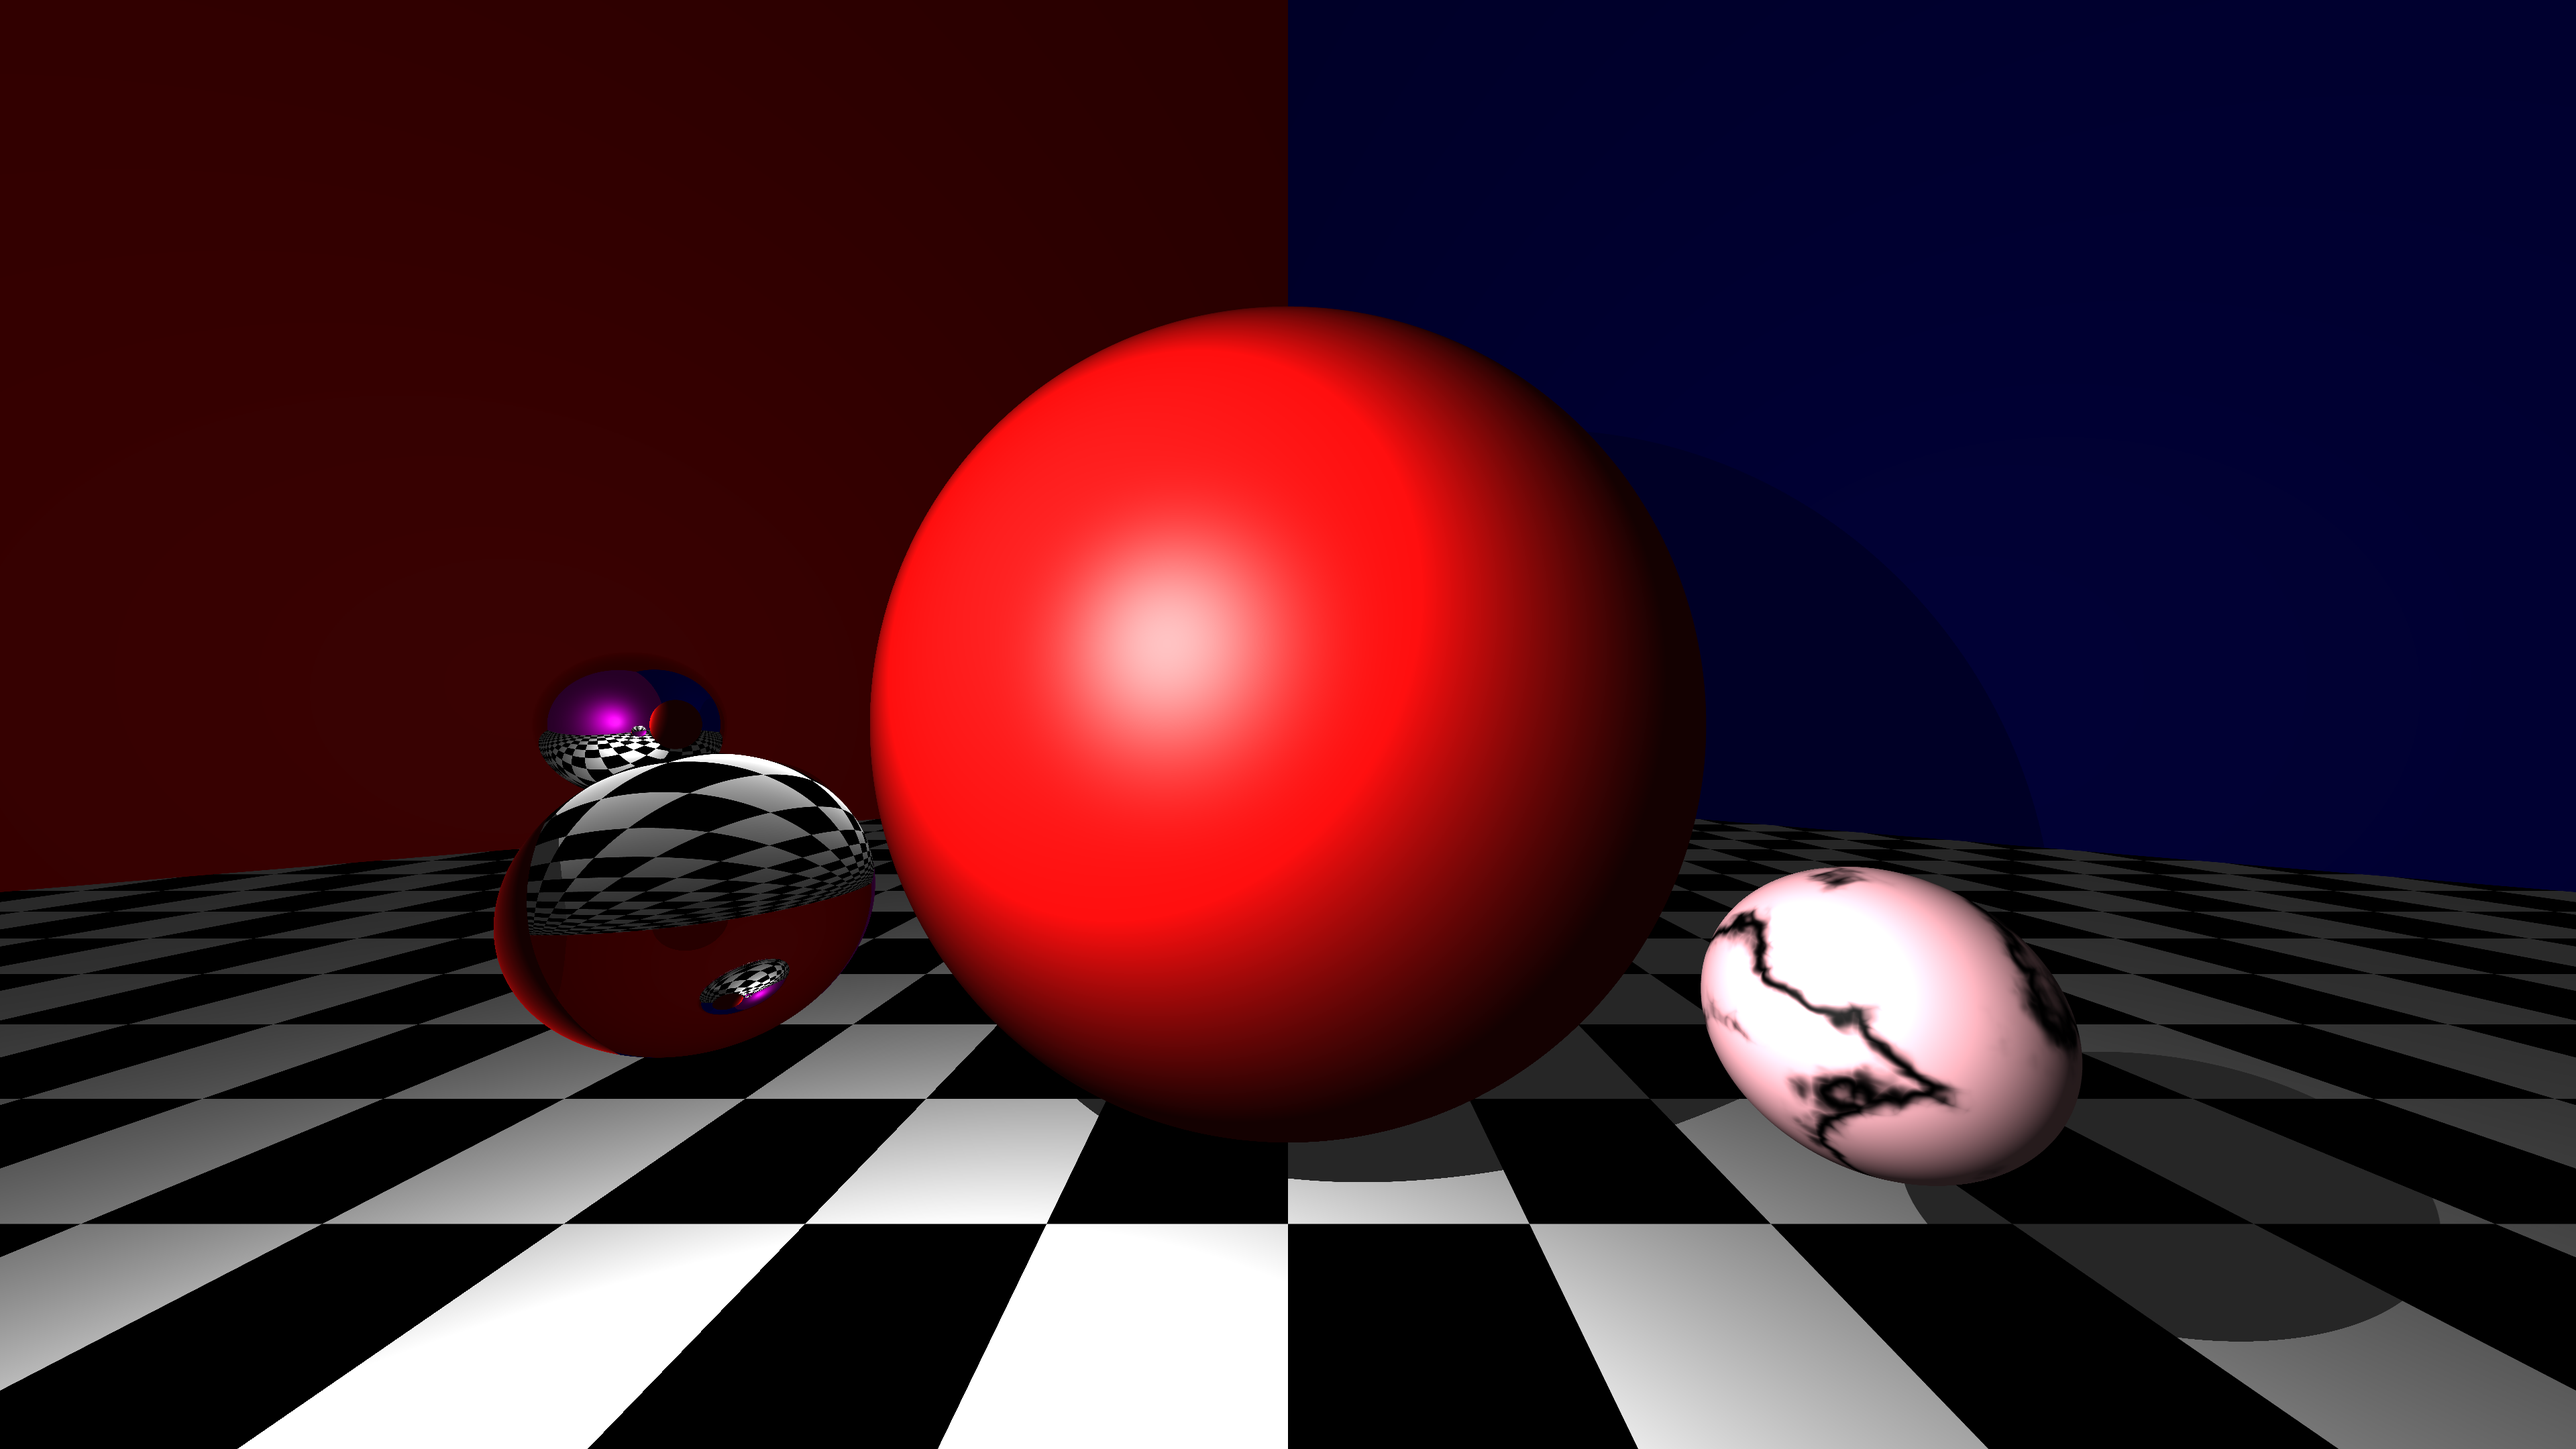
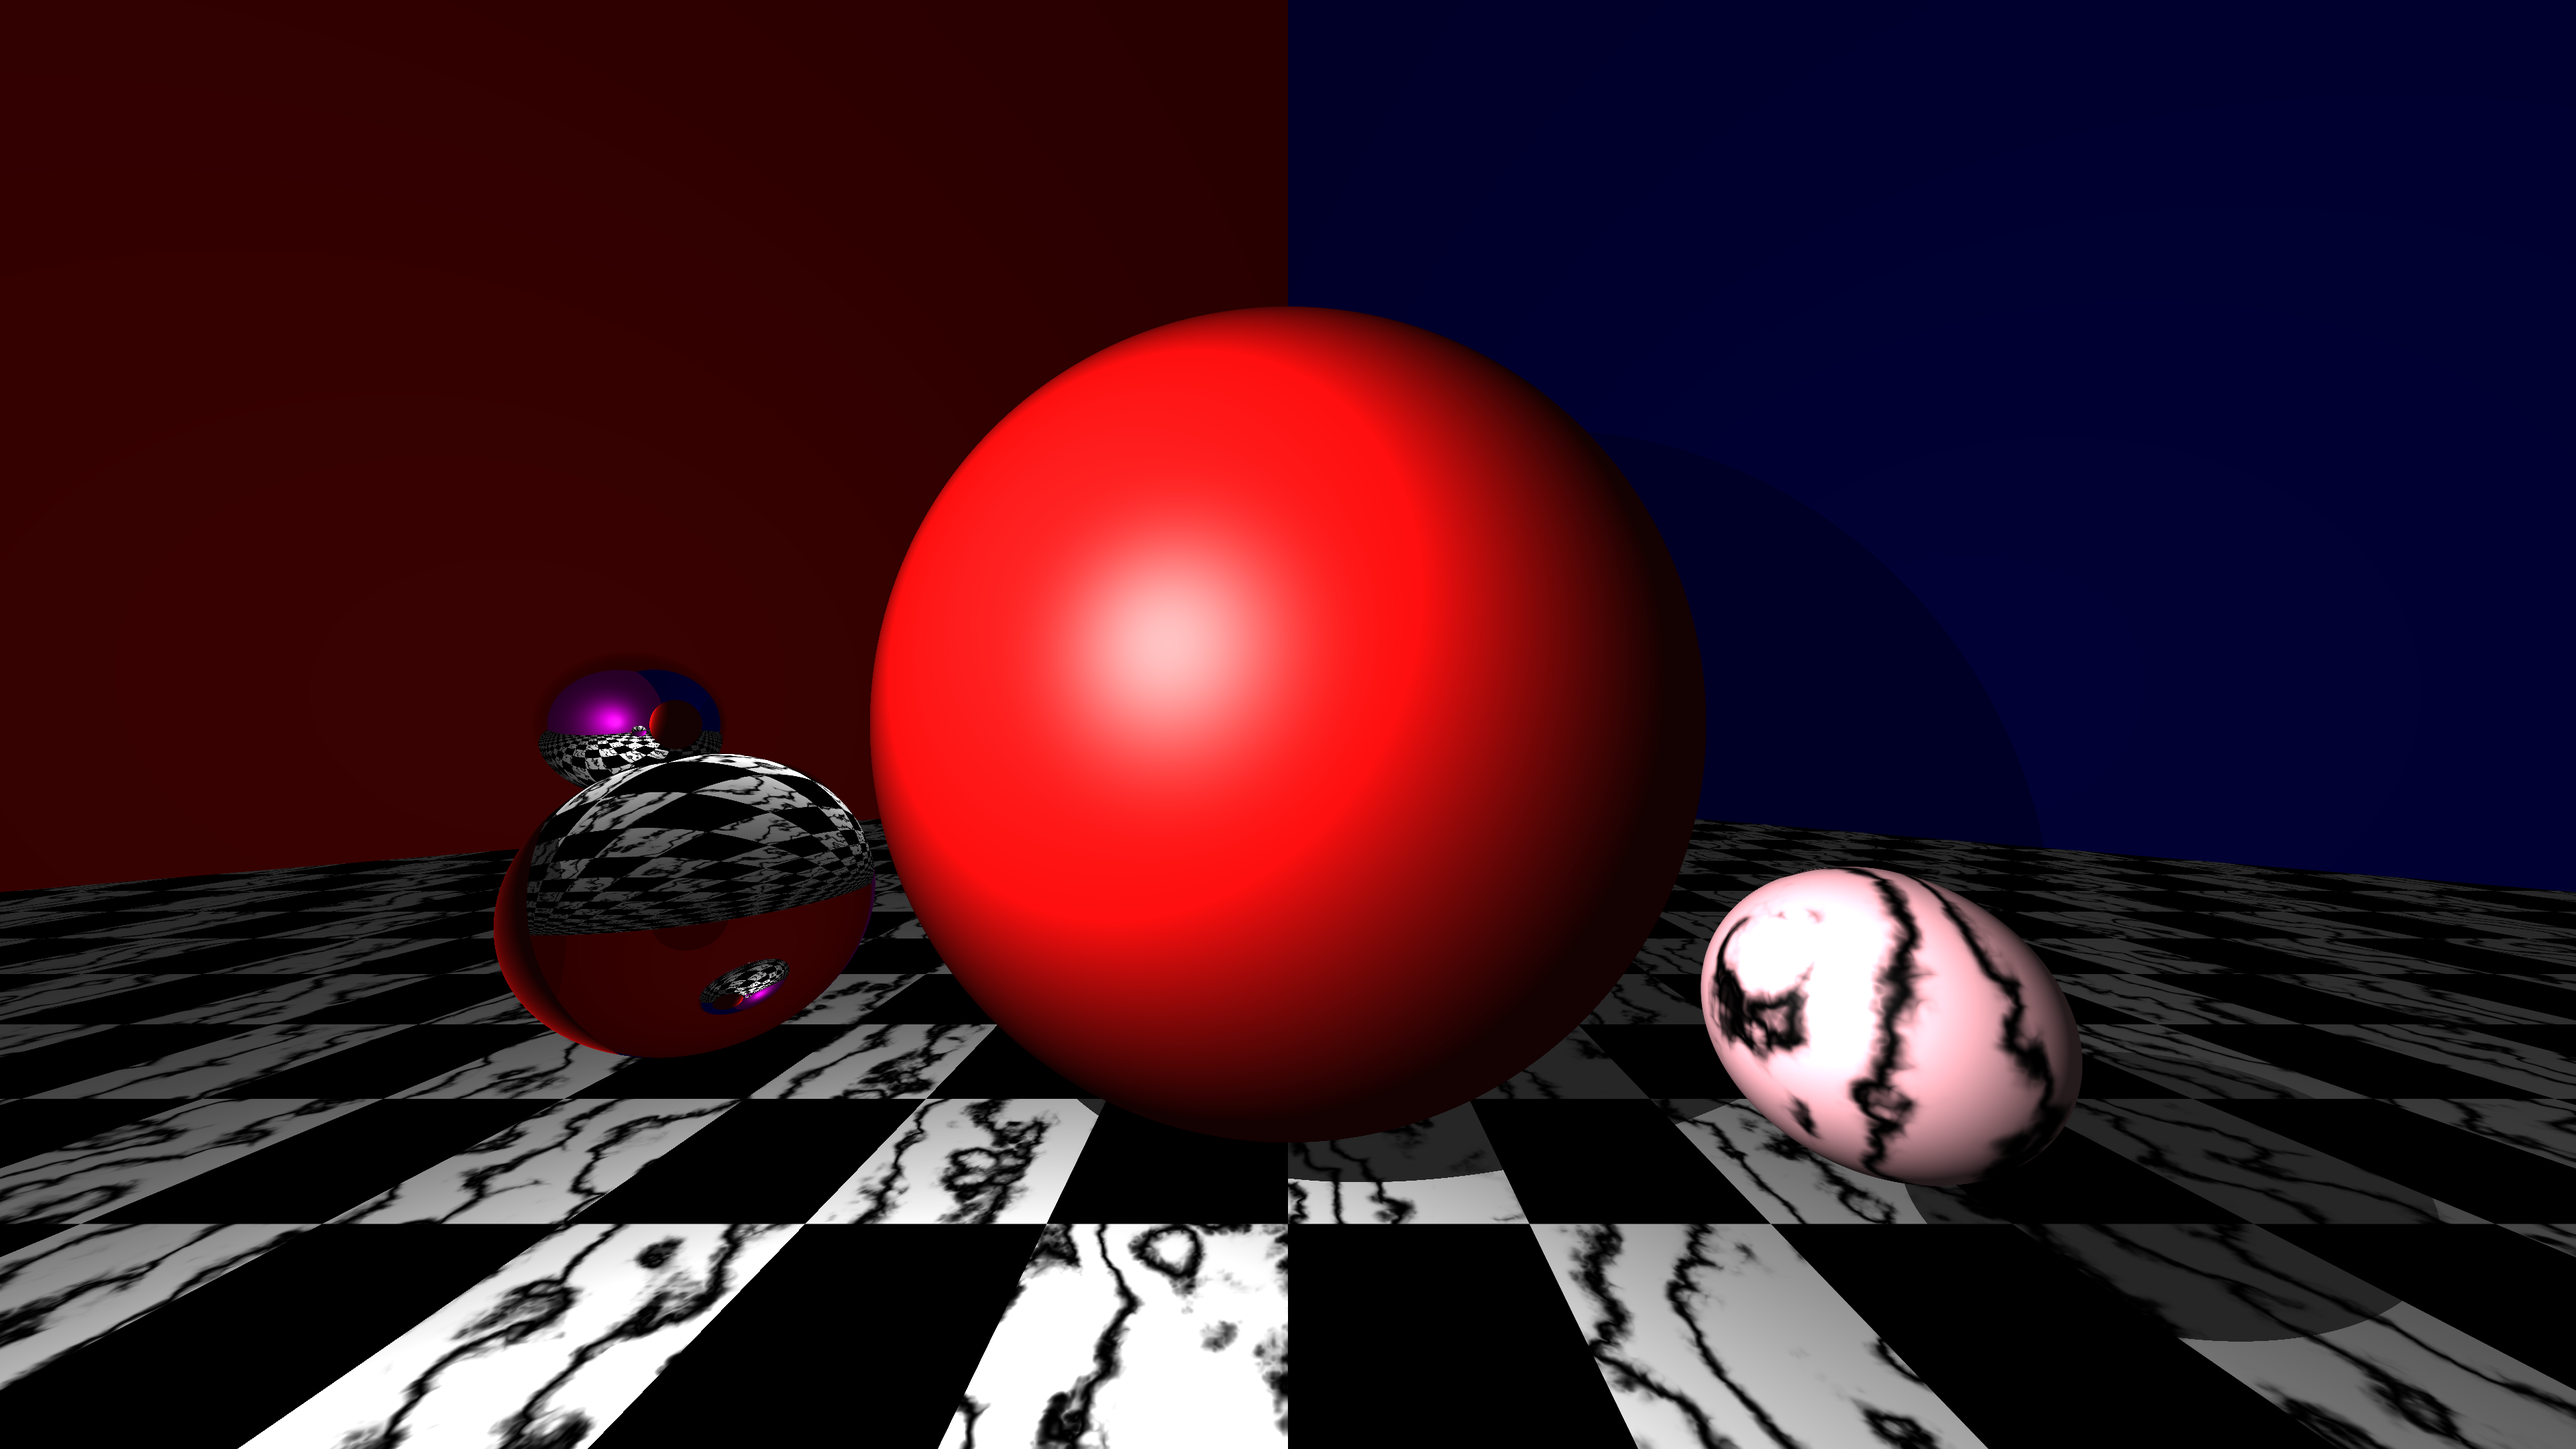
make checkerboard take textures instead of colors

diff --git a/src/tracer/texture.rs b/src/tracer/texture.rs
@@ -2,9 +2,13 @@ use crate::DVec3;
 use crate::perlin::Perlin;
 use Texture::*;
 
+const CHECKER_SCALE: f64 = 13.0;
+
 pub enum Texture {
     Solid(DVec3),
-    Checkerboard,
+    /* box avoids having to define lifetime all the way to objects.
+     * should texture be a struct instead? */
+    Checkerboard(Box<Texture>, Box<Texture>),
     Marble(Perlin),
 }
 
@@ -12,18 +16,19 @@ impl Texture {
     pub fn color_at(&self, p: DVec3) -> DVec3 {
         match self {
             Solid(c) => c.clone(),
-            Checkerboard => Self::checkers_at(p),
             Marble(pn) => pn.color_at(p),
+            Checkerboard(t1, t2) => {
+                if self.checkers_phase(p) > 0.0 {
+                    t1.color_at(p)
+                } else {
+                    t2.color_at(p)
+                }
+            }
         }
     }
 
-    fn checkers_at(p: DVec3) -> DVec3 {
-        // if looks bad, try to tune s
-        let s = 13.0;
-        if (s*p.x).sin() * (s*p.y).sin() * (s*p.z).sin() > 0.0 {
-            DVec3::ZERO
-        } else {
-            DVec3::ONE
-        }
+    fn checkers_phase(&self, p: DVec3) -> f64 {
+        let t = CHECKER_SCALE*p;
+        (t.x).sin() * (t.y).sin() * (t.z).sin()
     }
 }

diff --git a/src/tracer/scene.rs b/src/tracer/scene.rs
@@ -60,7 +60,12 @@ impl Scene {
                 Plane::new(
                     DVec3::new(0.0, -0.5, 0.0),
                     DVec3::new(0.0, 1.0, 0.0),
-                    Material::Phong(Texture::Checkerboard),
+                    Material::Phong(Texture::Checkerboard(
+                        Box::new(Texture::Solid(DVec3::ZERO)),
+                        Box::new(Texture::Marble(
+                            Perlin::new(DVec3::ONE)
+                        ))
+                    )),
                 ),
                 // right
                 Plane::new(
